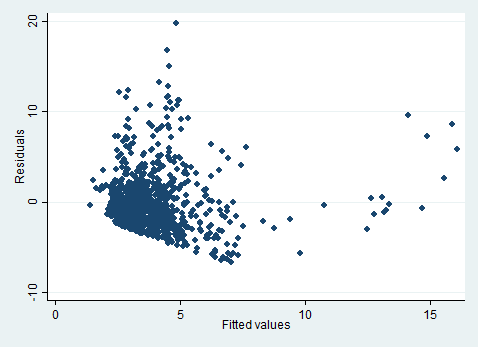
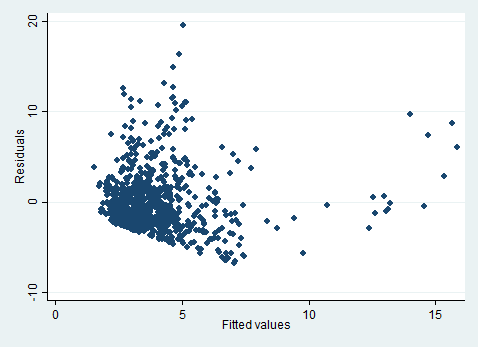
dummied regime

diff --git a/exam/stata/fe.tex b/exam/stata/fe.tex
@@ -12,15 +12,17 @@ $\ast$ : 5\% \hspace{1em} $\ast\ast$ : 1\% \normalsize}}}
 \multicolumn{1}{c}
 {\textbf{Variable}}
  & \multicolumn{2}{c}{\textbf{Coefficient}}  & \textbf{(Std. Err.)} \\ \hline
-regime  &  -0.139&  & (0.213)\\
-trade\_openness  &  0.038&\onepc  & (0.008)\\
-finance  &  0.391&\onepc  & (0.100)\\
-gdpgrowth  &  0.068&  & (0.046)\\
-Intercept  &  0.411&  & (0.614)\\
+0b.regime  &  0.000&  & (0.000)\\
+1.regime  &  -1.194&\onepc  & (0.355)\\
+2.regime  &  -0.358&  & (0.424)\\
+trade\_openness  &  0.034&\onepc  & (0.008)\\
+finance  &  0.279&\onepc  & (0.104)\\
+gdpgrowth  &  0.071&  & (0.045)\\
+Intercept  &  1.239&\tenpc  & (0.649)\\
 \hline\multicolumn{4}{c}{}\\
 \hline N & \multicolumn{3}{c}{818}\\
-R$^{2}$ & \multicolumn{3}{c}{0.074}\\
-F $ _{(32,785)}$ & \multicolumn{3}{c}{15.658}\\
+R$^{2}$ & \multicolumn{3}{c}{0.09}\\
+F $ _{(33,784)}$ & \multicolumn{3}{c}{15.473}\\
 \hline\legend
 \end{tabular}
 \end{table}

diff --git a/exam/stata/pooled.tex b/exam/stata/pooled.tex
@@ -12,15 +12,17 @@ $\ast$ : 5\% \hspace{1em} $\ast\ast$ : 1\% \normalsize}}}
 \multicolumn{1}{c}
 {\textbf{Variable}}
  & \multicolumn{2}{c}{\textbf{Coefficient}}  & \textbf{(Std. Err.)} \\ \hline
-regime  &  -0.701&\onepc  & (0.158)\\
+0b.regime  &  0.000&  & (0.000)\\
+1.regime  &  -1.342&\onepc  & (0.305)\\
+2.regime  &  -1.363&\onepc  & (0.316)\\
 trade\_openness  &  0.029&\onepc  & (0.002)\\
-finance  &  0.106&  & (0.085)\\
-gdpgrowth  &  0.107&\fivepc  & (0.049)\\
-Intercept  &  1.842&\onepc  & (0.276)\\
+finance  &  0.025&  & (0.091)\\
+gdpgrowth  &  0.101&\fivepc  & (0.049)\\
+Intercept  &  2.236&\onepc  & (0.318)\\
 \hline\multicolumn{4}{c}{}\\
 \hline N & \multicolumn{3}{c}{818}\\
-R$^{2}$ & \multicolumn{3}{c}{0.213}\\
-F $ _{(4,813)}$ & \multicolumn{3}{c}{54.870}\\
+R$^{2}$ & \multicolumn{3}{c}{0.218}\\
+F $ _{(5,812)}$ & \multicolumn{3}{c}{45.368}\\
 \hline\legend
 \end{tabular}
 \end{table}
